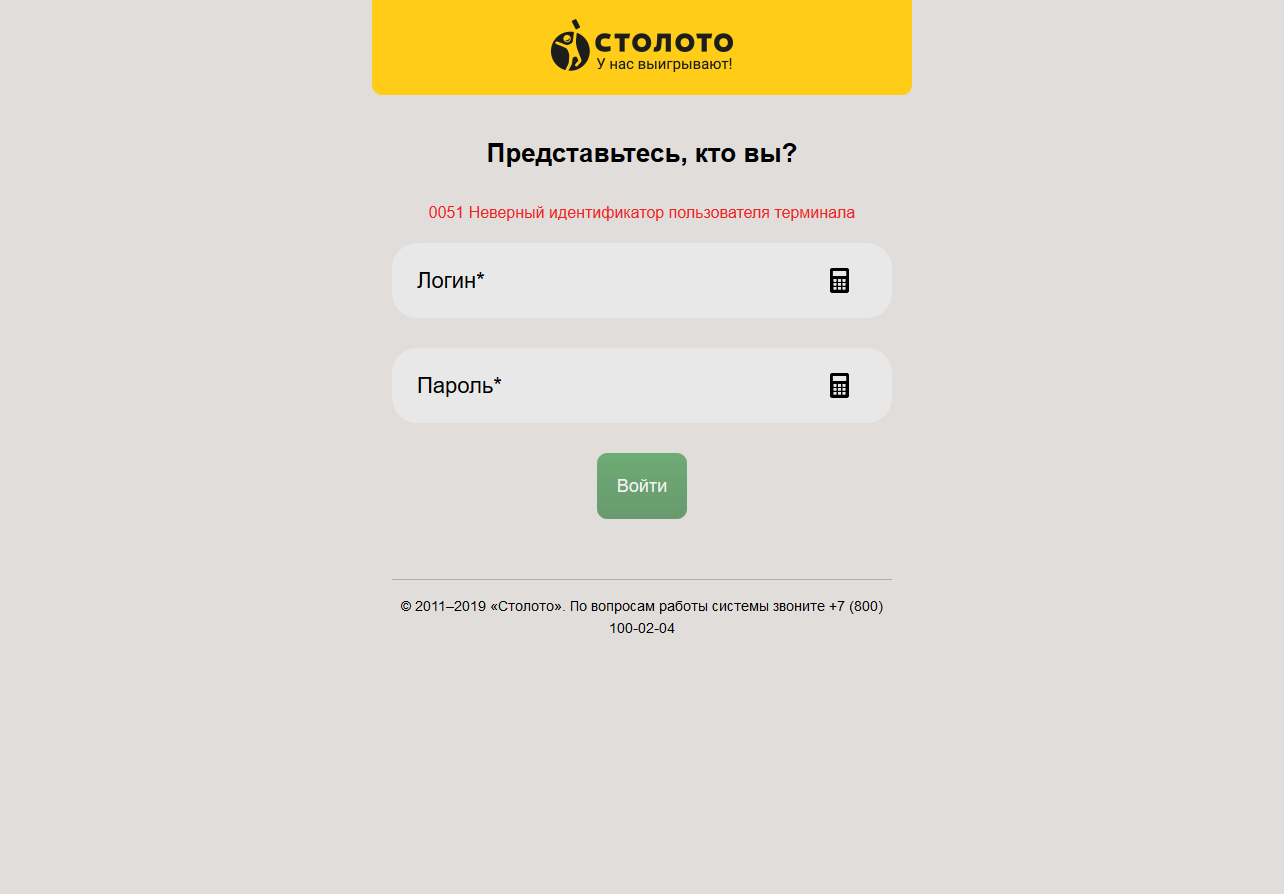
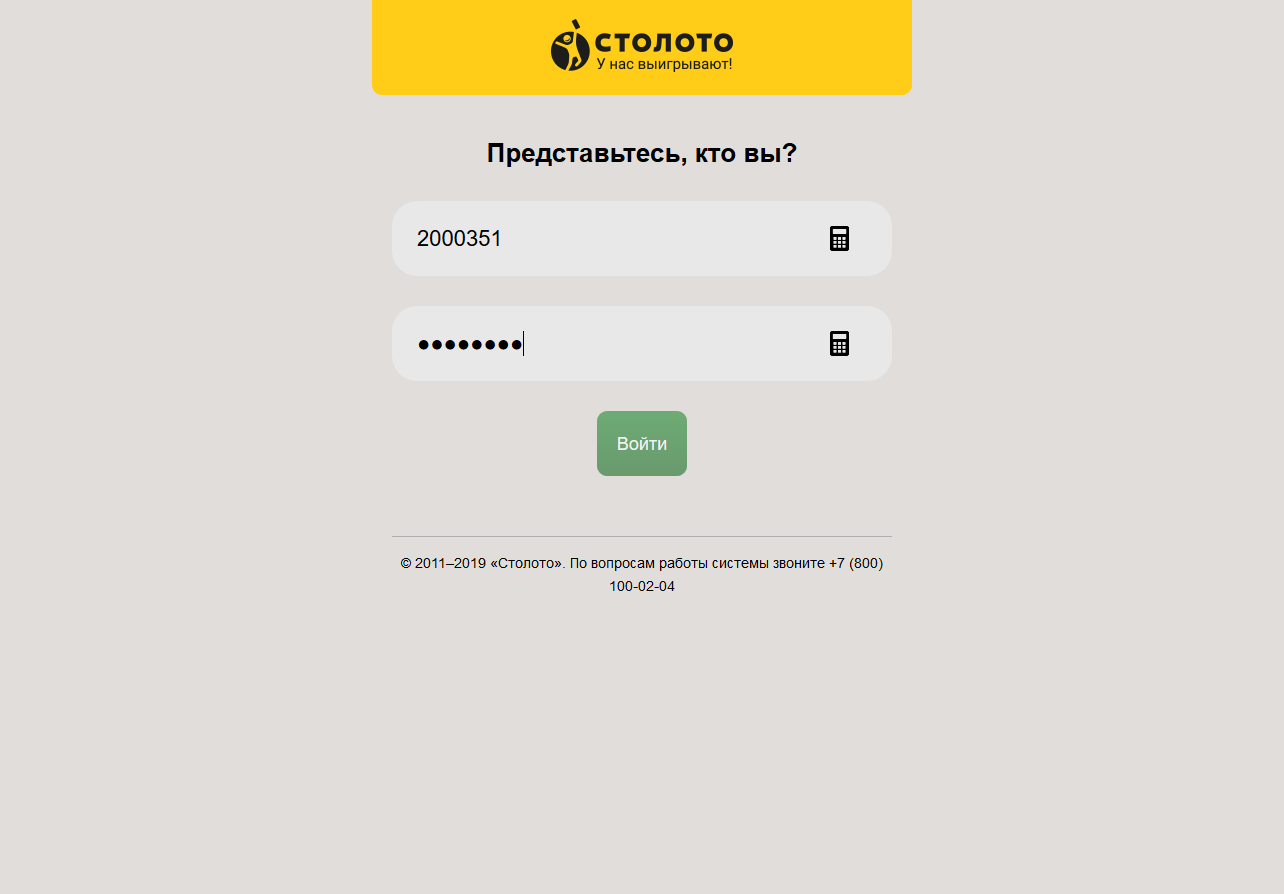
Отлажен тест test_error_login

diff --git a/fixture/login.py b/fixture/login.py
@@ -68,9 +68,6 @@ class LoginHelper:
         wd.find_element_by_name("password").click()
         wd.find_element_by_name("password").clear()
         wd.find_element_by_name("password").send_keys("34756381")
-        self.enter_button()
-        wd.find_element_by_css_selector("div.signIn__error.signIn__error_show.error")
-        wd.find_element_by_xpath(".//*[text()='0051 Неверный идентификатор пользователя терминала']/..")
         wd.get_screenshot_as_file('C:\\PycharmProjects\\S3\screen\\login\\incorrect_user.png')
 
 
@@ -103,3 +100,9 @@ class LoginHelper:
         # нажатие на кнопку войти
         wd = self.app.wd
         wd.find_element_by_css_selector("div > input[value='Войти']").click()
+
+
+    def err_passwword(self):
+        wd = self.app.wd
+        return wd.find_element_by_css_selector("div.signIn__error.signIn__error_show.error").text
+        #wd.find_element_by_xpath(".//*[text()='0051 Неверный идентификатор пользователя терминала']/..")

diff --git a/test/login/test_error_login.py b/test/login/test_error_login.py
@@ -5,3 +5,5 @@
 
 def test_error_login(app2):
     app2.login.incorrect_user()
+    app2.login.enter_button()
+    assert app2.login.err_passwword() == "0051 Неверный идентификатор пользователя терминала"
